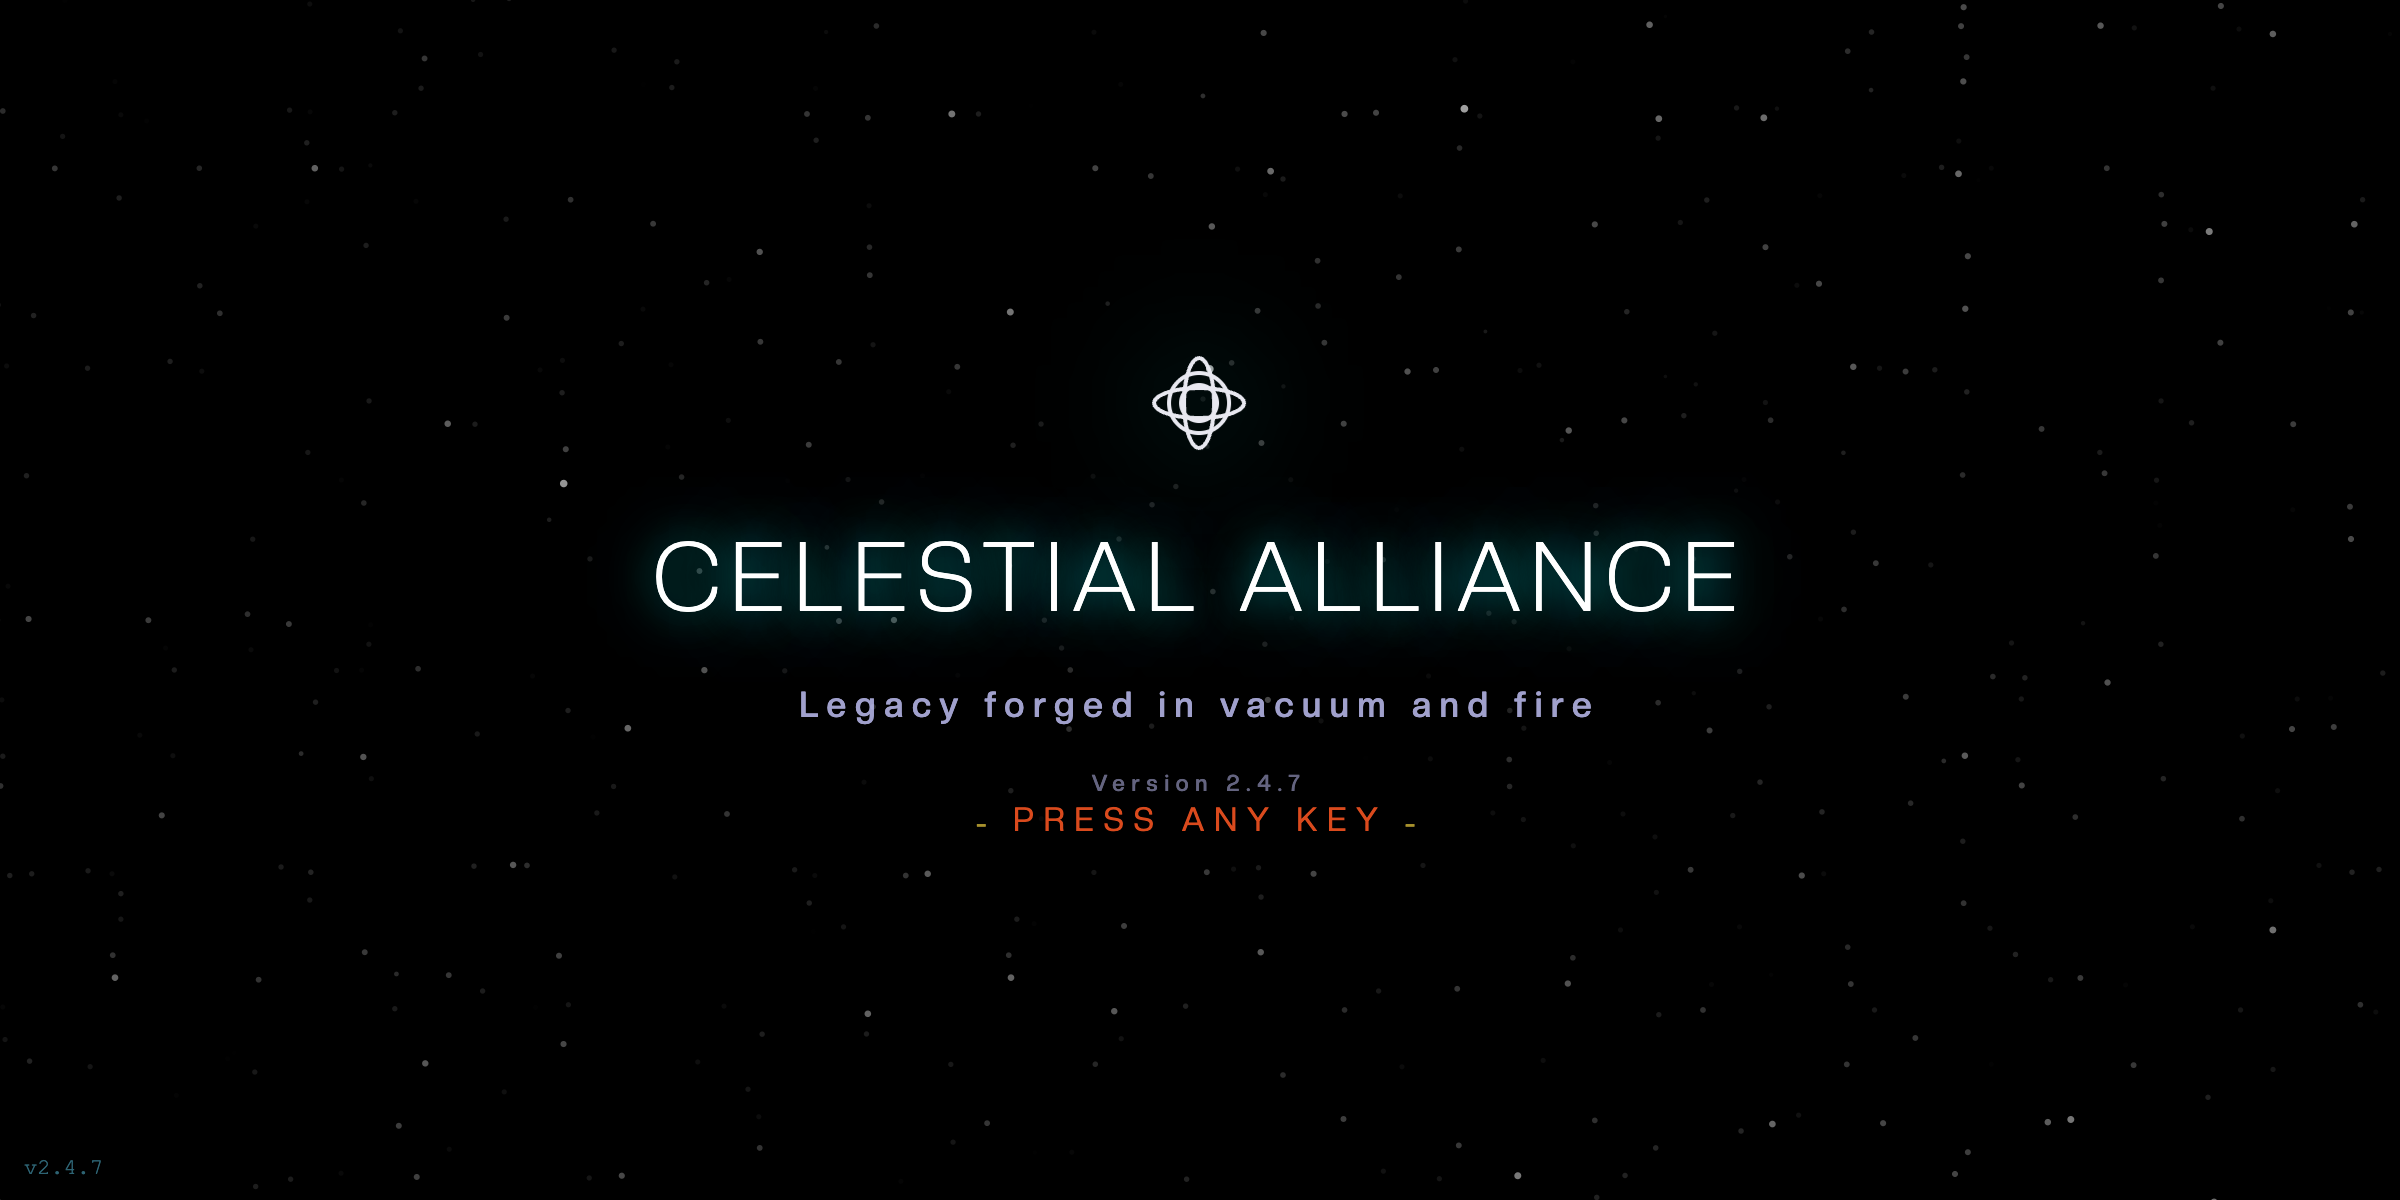
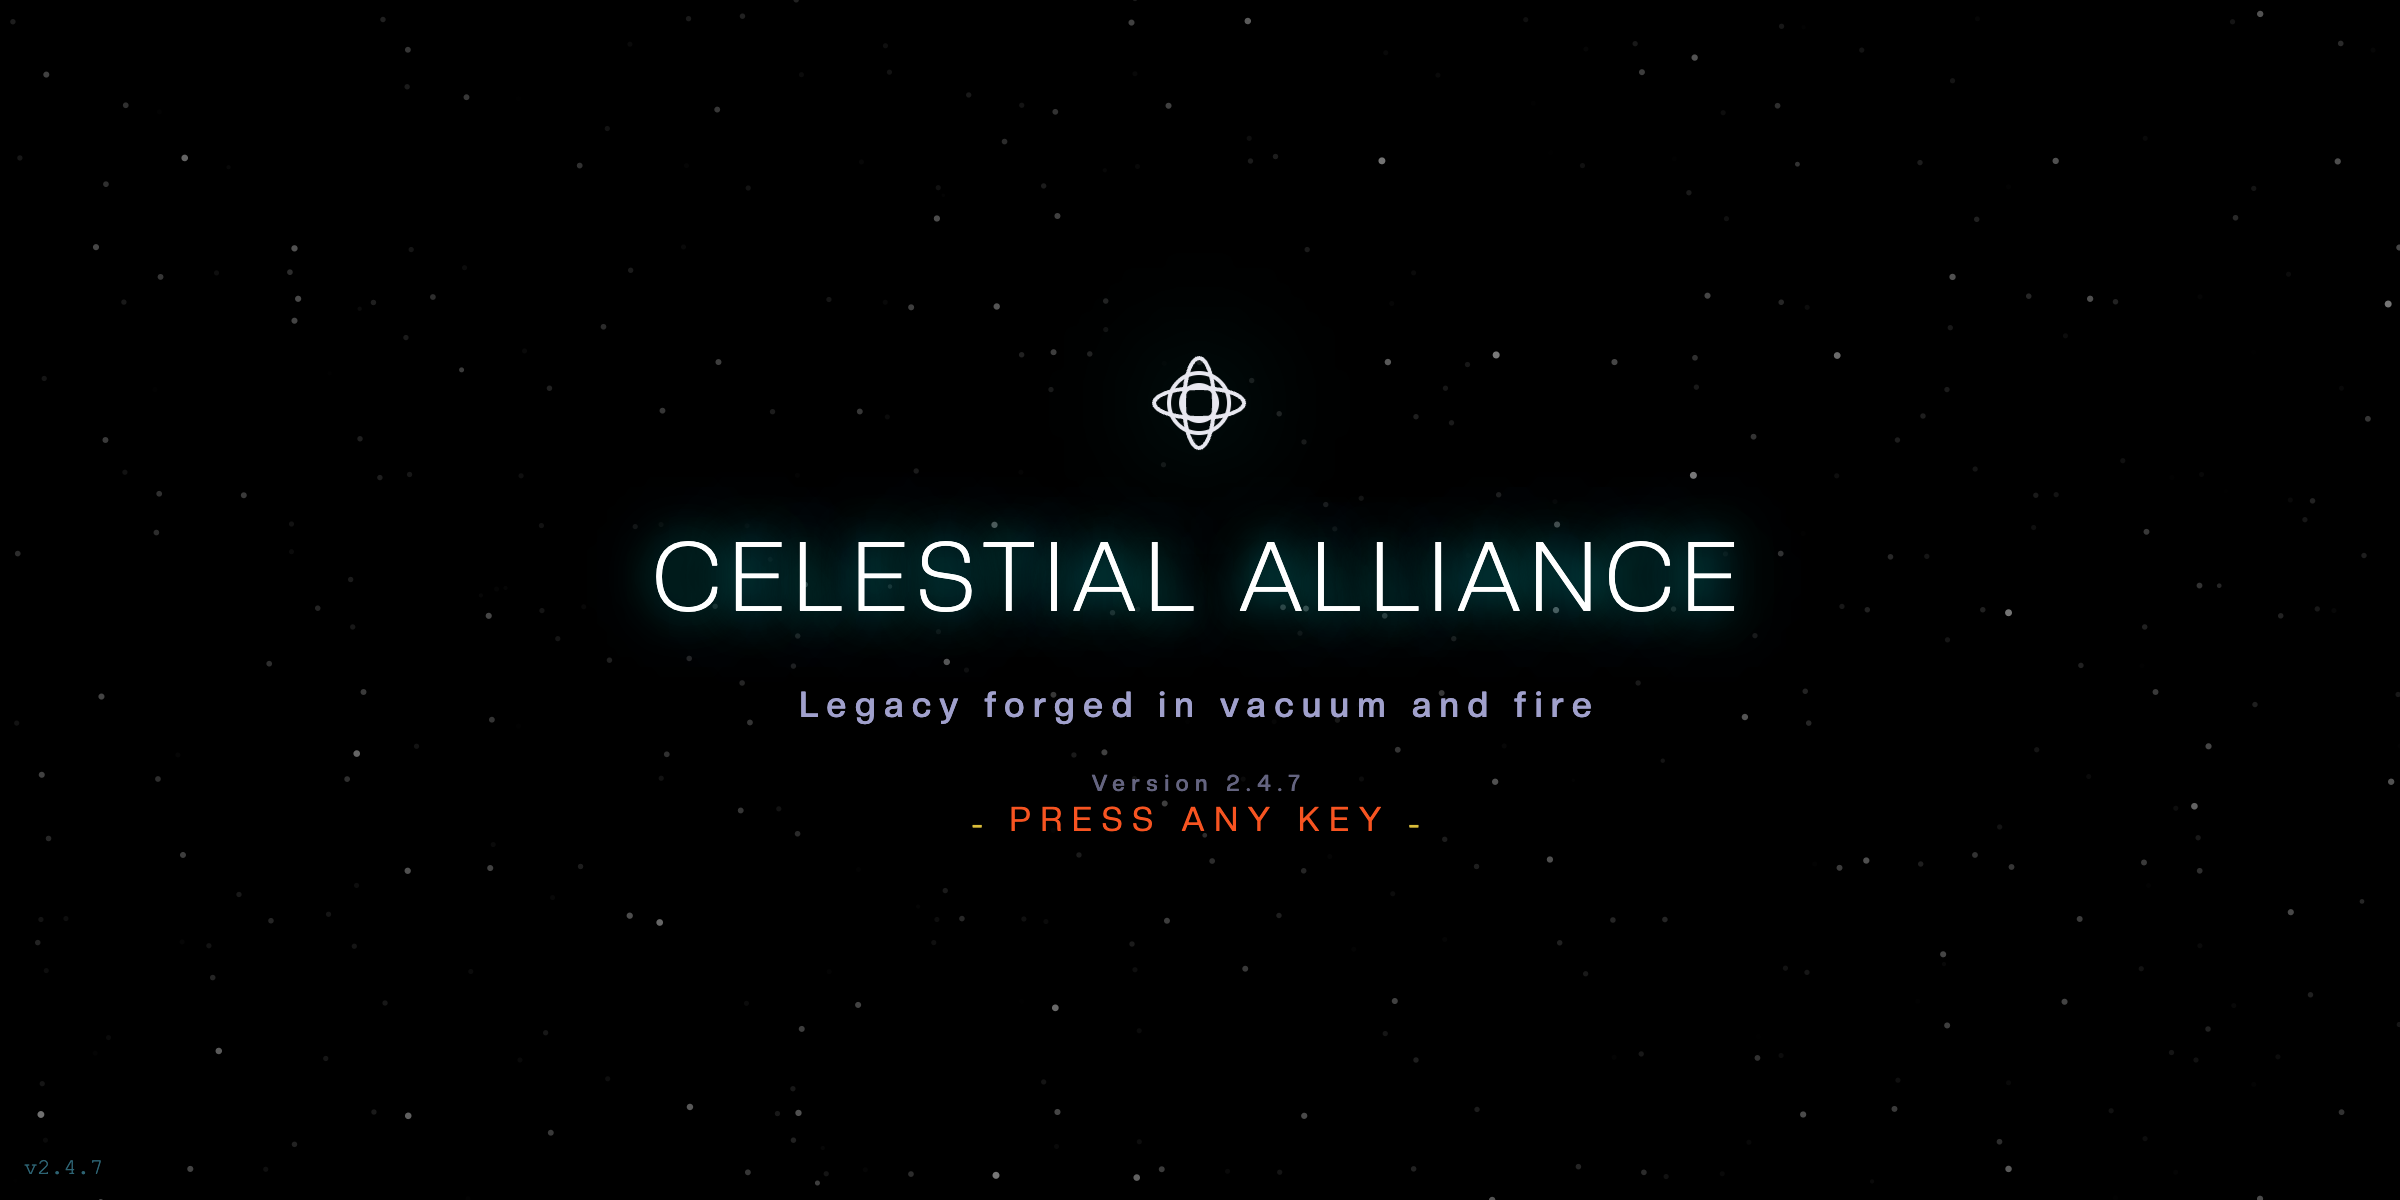
the version stamp cannot go stale now
`deploy-to-github-pages.sh` restamps the front page as part of a deploy, which is the only moment the
figure changes. `--no-shots` there: screenshots need the deploy to be *live*, which it is not yet when
the commit is made, and photographing four sites would add a minute to every push.

Also re-shot all four against the live sites. Celestial Alliance is on v2.4.8.

Changed region(s): [[0.4062, 0.6783, 0.5625, 0.7092]]

diff --git a/index.html b/index.html
@@ -164,7 +164,7 @@
 		<li>
 			<a href="/projects/celestial-alliance-3/">
 				<img class="shot" src="/assets/projects/celestial-alliance-3.png" alt="Celestial Alliance 3 screenshot" loading="lazy" width="1200" height="600">
-				<code class="version">v2.4.7</code>
+				<code class="version">v2.4.8</code>
 				<span class="card-text">
 					<strong>Celestial Alliance 3</strong>
 					<span>A space-opera RPG that runs in the browser — fly, trade, walk stations and cities, and hire a crew who remember you.</span>
